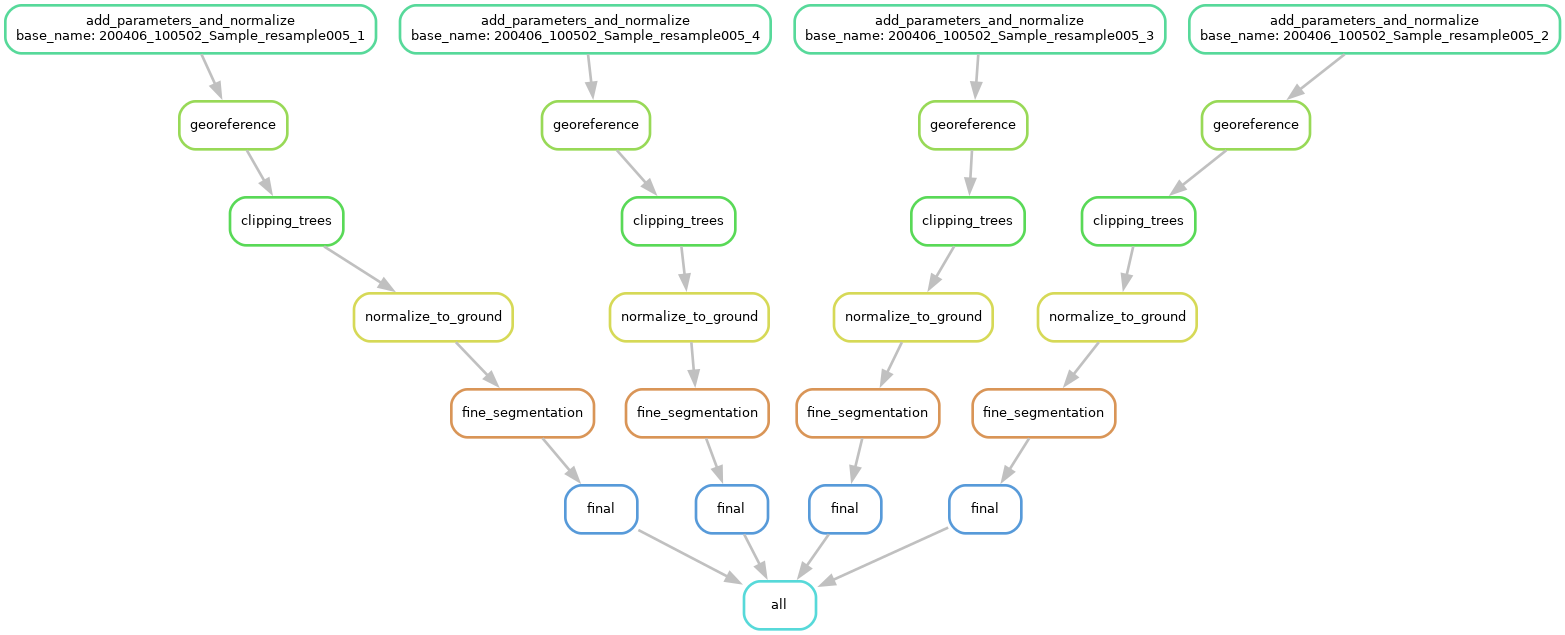
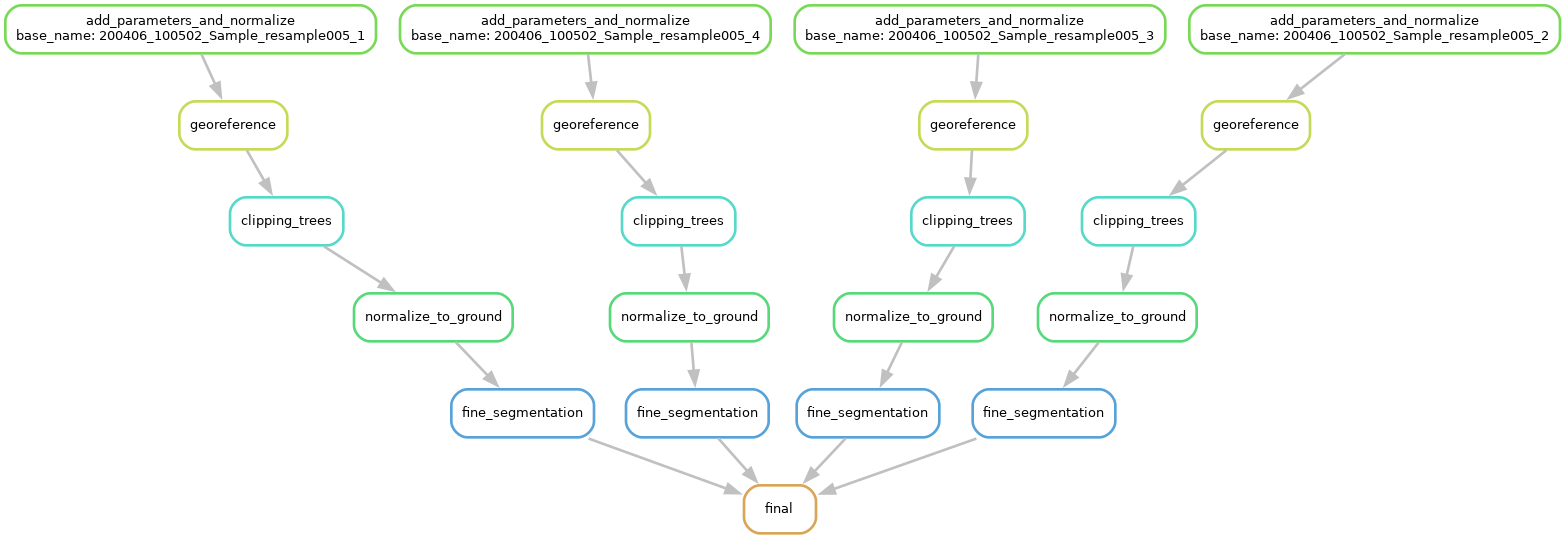
add snakemake --keep-going and simplify final rule

Changed region(s): [[0.0, 0.0, 1.0, 1.0], [0.5521, 0.8609, 0.5827, 0.8905]]

diff --git a/snakemake/README.md b/snakemake/README.md
@@ -17,7 +17,7 @@ BASE_PATH="/scratch/project_2008498/antongoo/fgi/snakemake_many_files" snakemake
 
 ## SLURM integraion
 ```bash
-BASE_PATH="/scratch/project_2008498/antongoo/fgi/snakemake_many_files" snakemake -s Snakefile_SLURM --jobs 1 --executor slurm --default-resources slurm_account=project_2008498 slurm_partition=interactive
+BASE_PATH="/scratch/project_2008498/antongoo/fgi/snakemake_many_files" snakemake --keep-going -s Snakefile_SLURM -F --jobs 1 --executor slurm --default-resources slurm_account=project_2008498 slurm_partition=small
 ```
 
 ## Hyperqueue integration
@@ -33,5 +33,5 @@ srun --overlap --cpu-bind=none --mpi=none hq worker start \
     --on-server-lost finish-running \
     --cpus="$SLURM_CPUS_PER_TASK" & hq worker wait 1
 
-BASE_PATH="/scratch/project_2008498/antongoo/fgi/snakemake_many_files" snakemake -s Snakefile_SLURM --jobs 1 --executor cluster-generic --cluster-generic-submit-cmd "hq submit --cpus 1"
+BASE_PATH="/scratch/project_2008498/antongoo/fgi/snakemake_many_files" snakemake --keep-going -s Snakefile_SLURM --jobs 1 --executor cluster-generic --cluster-generic-submit-cmd "hq submit --cpus 1"
 ```
